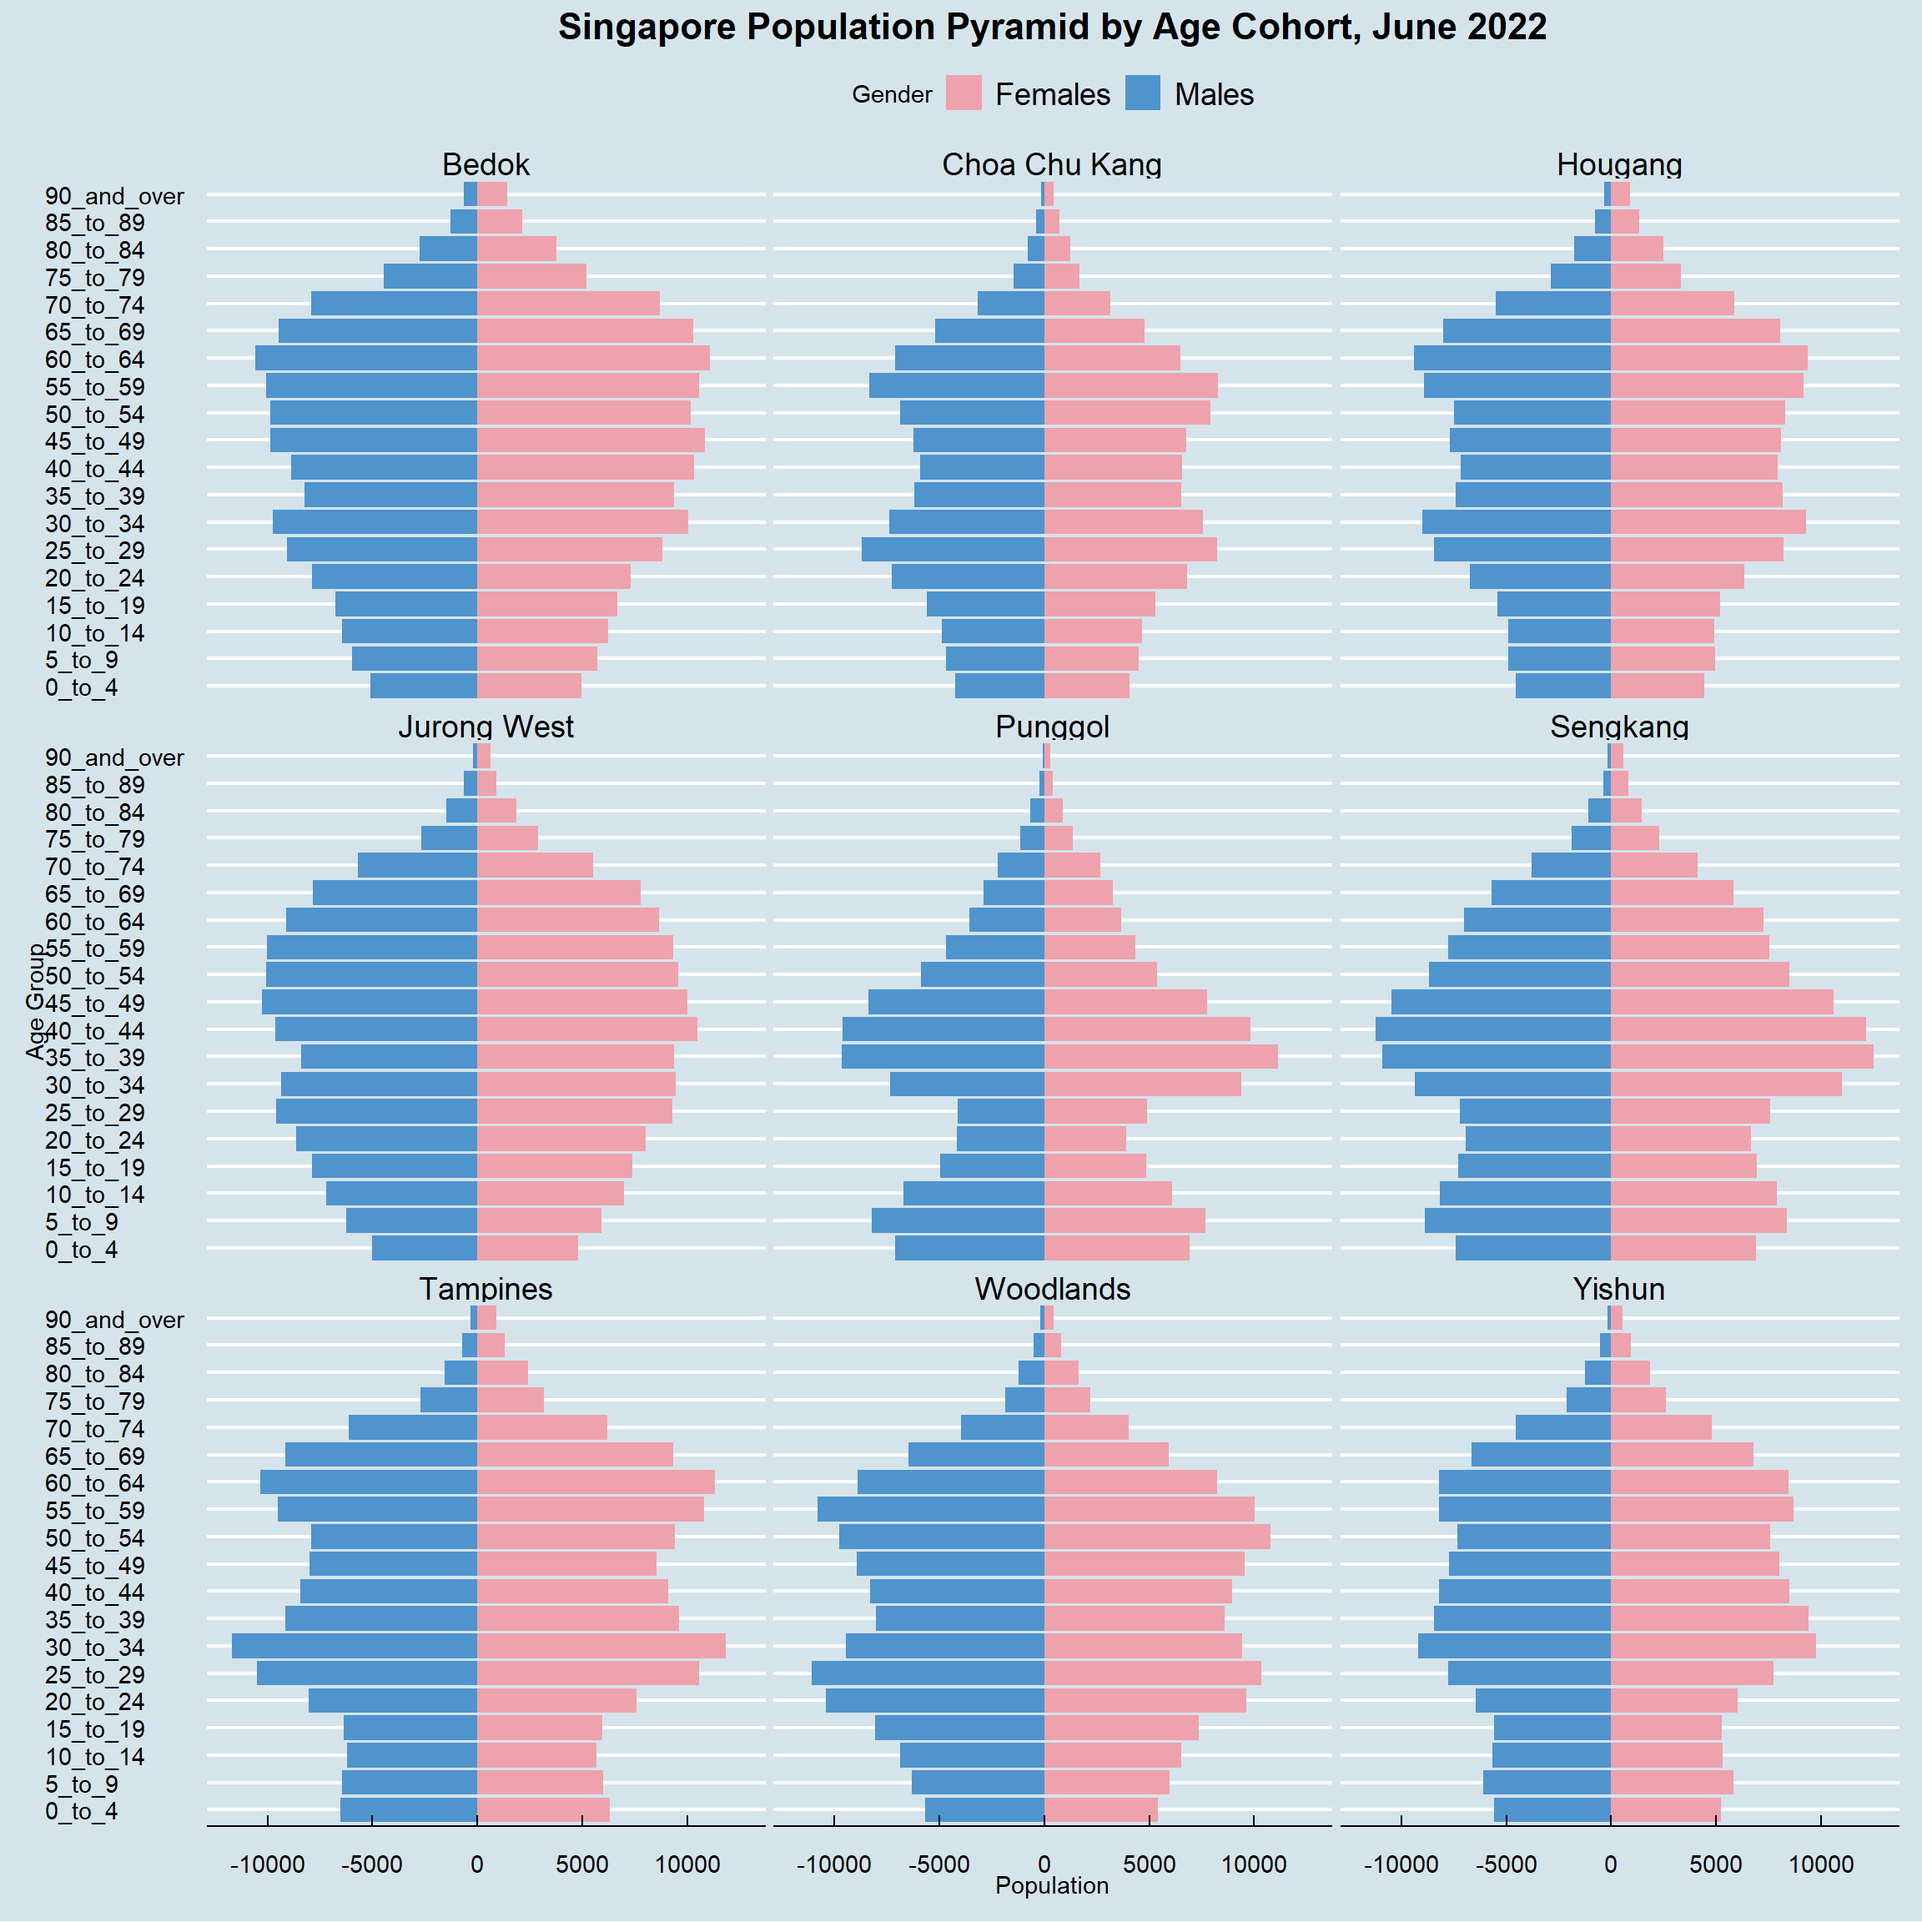
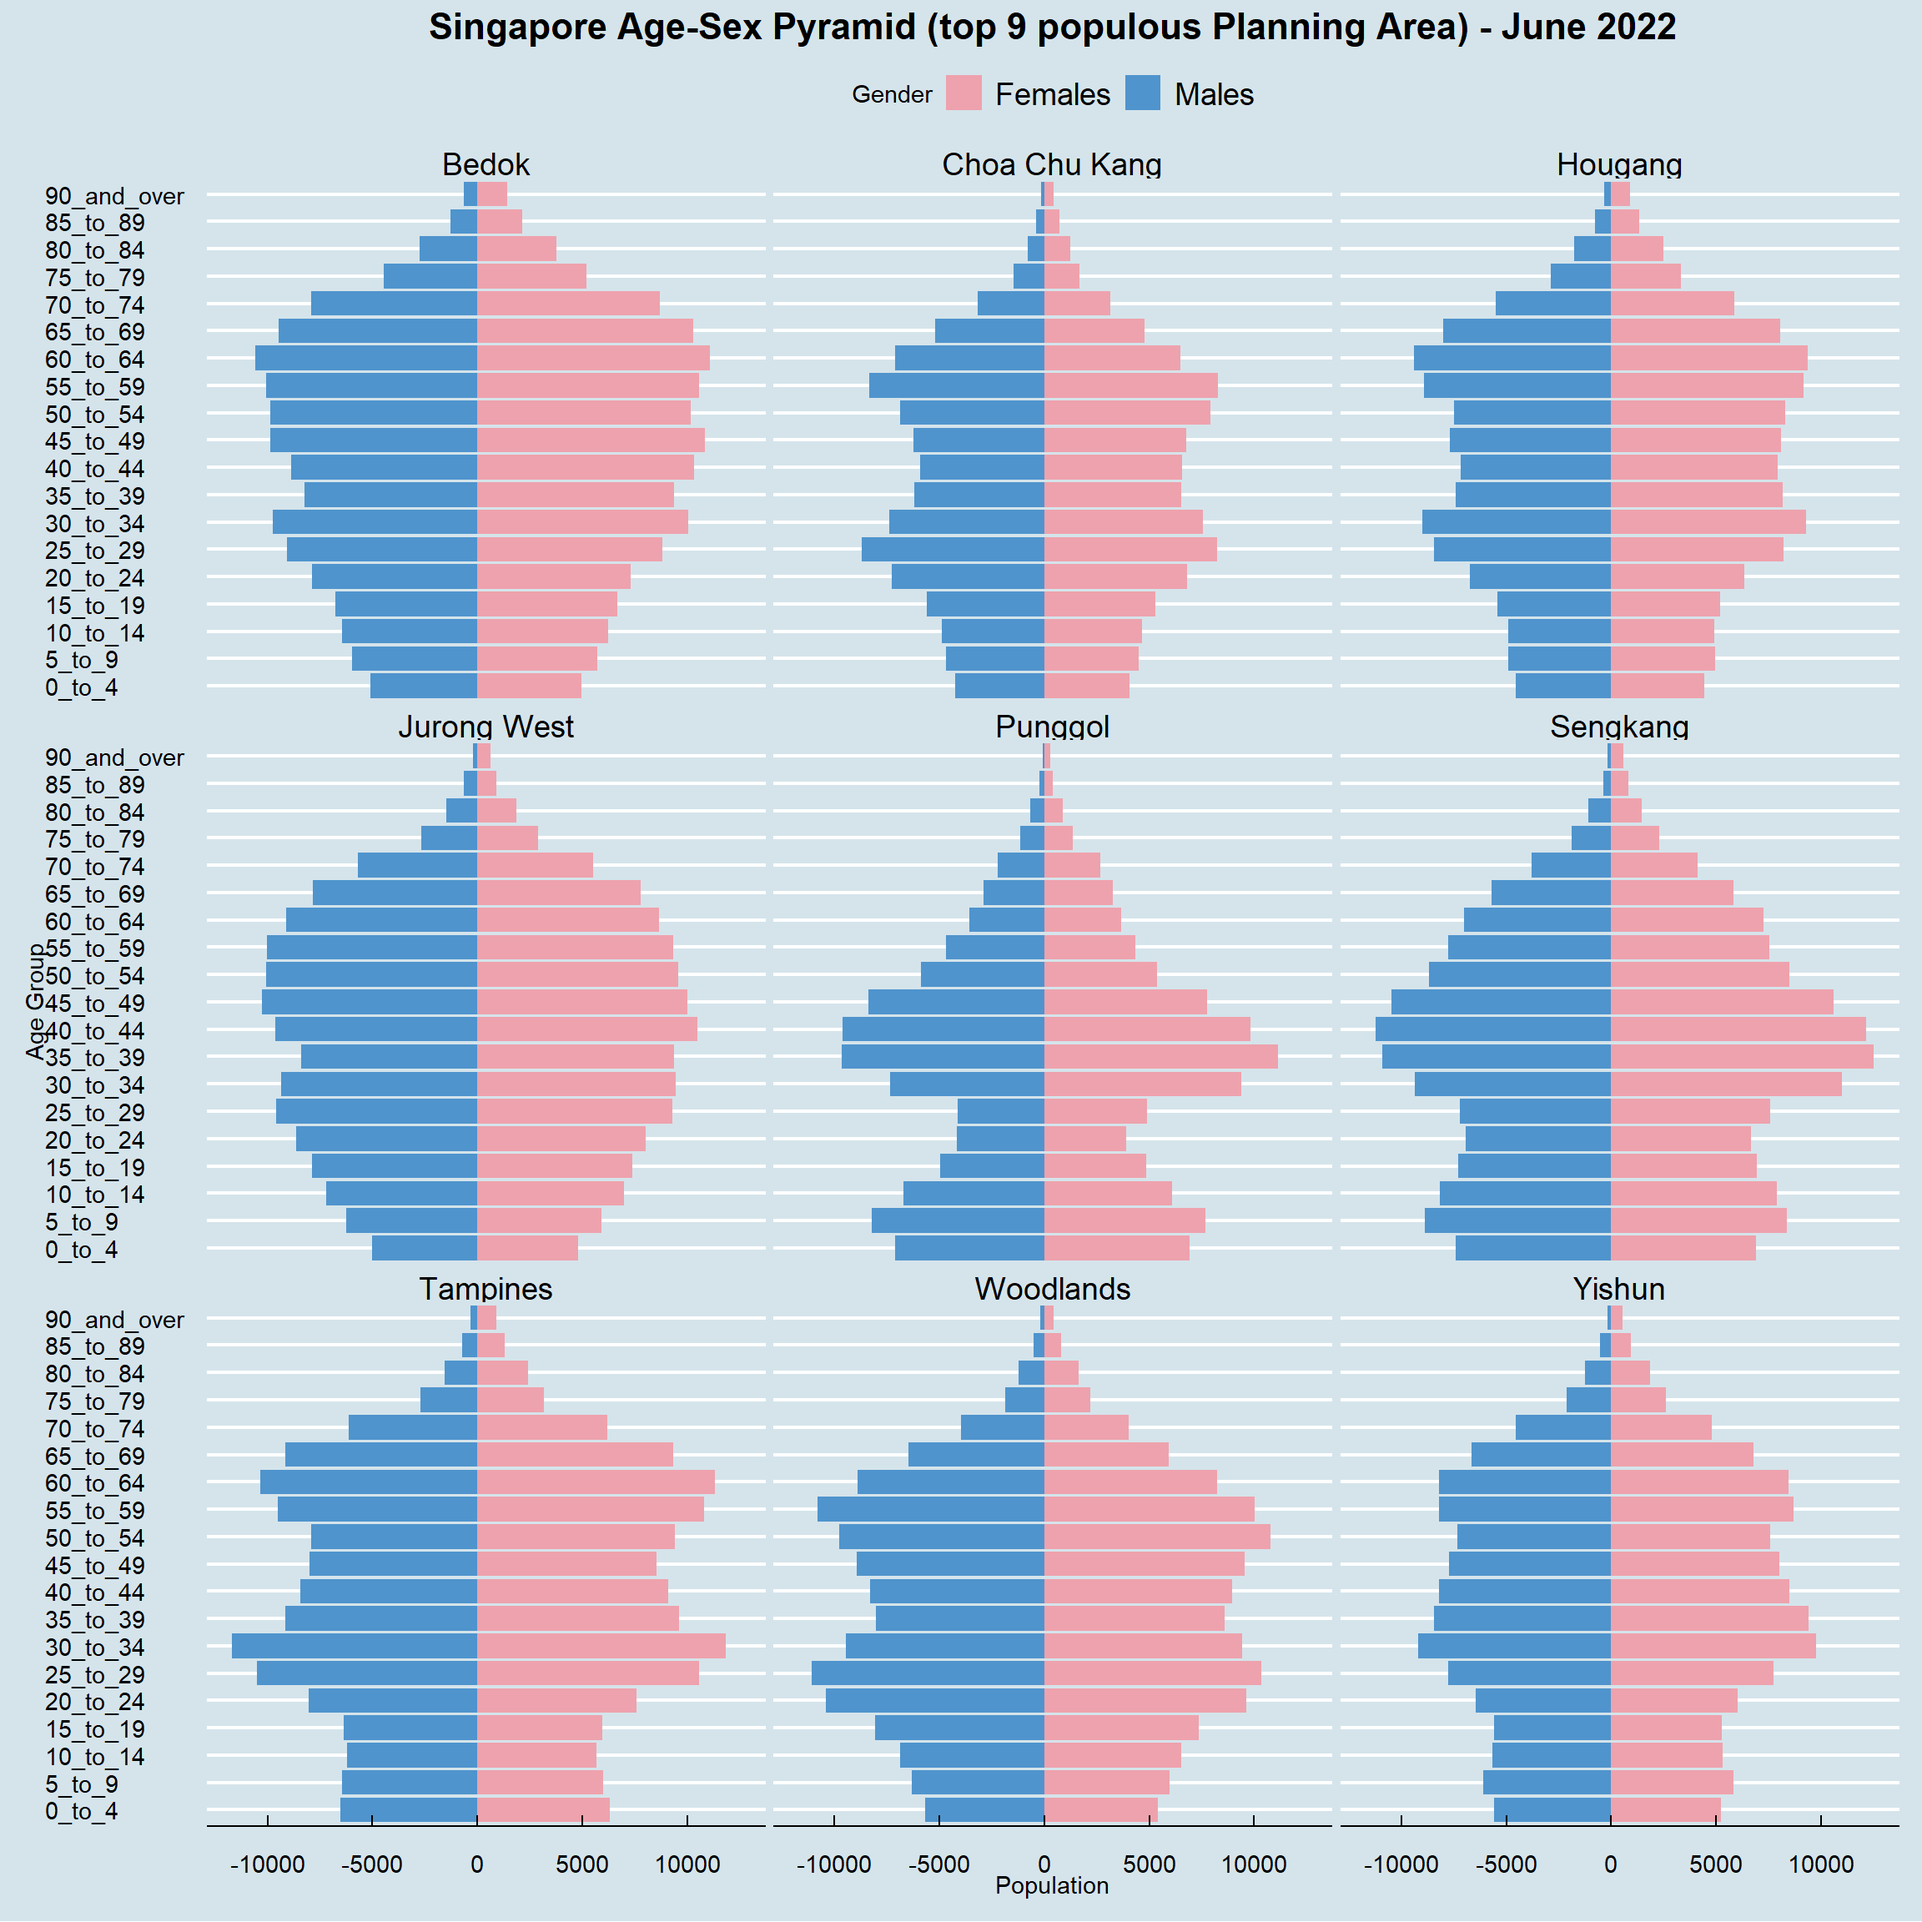
TakeHomeEx02 Update 3

Changed region(s): [[0.2188, 0.0, 0.875, 0.0312]]

diff --git a/_site/TakeHomeEx/TakeHomeEx02/TakeHomeEx02.html b/_site/TakeHomeEx/TakeHomeEx02/TakeHomeEx02.html
@@ -459,7 +459,7 @@ Note
 </section>
 <section id="preparing-the-data-for-visualisation" class="level4">
 <h4 class="anchored" data-anchor-id="preparing-the-data-for-visualisation">Preparing the data for visualisation</h4>
-<p>This exercise only requires us to show the Age-Sex Pyramid for 9 selected planning areas in Singapore. we will choose the top by planning areas by total population. first we would need to find out which are the 9 most populous planning areas with the following code chunk.</p>
+<p>This exercise only requires us to show the Age-Sex Pyramid for 9 selected planning areas in Singapore. we will choose the top 9 by planning areas by total population. first we would need to find out which are the 9 most populous planning areas with the following code chunk.</p>
 <div class="cell">
 <details>
 <summary>Show the code</summary>
@@ -564,7 +564,7 @@ Note
 <details>
 <summary>Show the code</summary>
 <div class="sourceCode cell-code" id="cb14"><pre class="sourceCode r code-with-copy"><code class="sourceCode r"><span id="cb14-1"><a href="#cb14-1" aria-hidden="true" tabindex="-1"></a>agesexP <span class="sc">+</span></span>
-<span id="cb14-2"><a href="#cb14-2" aria-hidden="true" tabindex="-1"></a>  <span class="fu">ggtitle</span>(<span class="st">"Singapore Population Pyramid by Age Cohort, June 2022"</span>) <span class="sc">+</span> </span>
+<span id="cb14-2"><a href="#cb14-2" aria-hidden="true" tabindex="-1"></a>  <span class="fu">ggtitle</span>(<span class="st">"Singapore Age-Sex Pyramid (top 9 populous Planning Area) - June 2022"</span>) <span class="sc">+</span> </span>
 <span id="cb14-3"><a href="#cb14-3" aria-hidden="true" tabindex="-1"></a>  <span class="fu">theme_economist</span>() <span class="sc">+</span></span>
 <span id="cb14-4"><a href="#cb14-4" aria-hidden="true" tabindex="-1"></a>  <span class="fu">theme</span>(<span class="at">plot.title =</span> <span class="fu">element_text</span>(<span class="at">hjust =</span> <span class="fl">0.5</span>, <span class="at">vjust =</span> <span class="dv">3</span>)) <span class="sc">+</span> </span>
 <span id="cb14-5"><a href="#cb14-5" aria-hidden="true" tabindex="-1"></a>  <span class="fu">xlab</span>(<span class="st">"Age Group"</span>) <span class="sc">+</span> </span>
